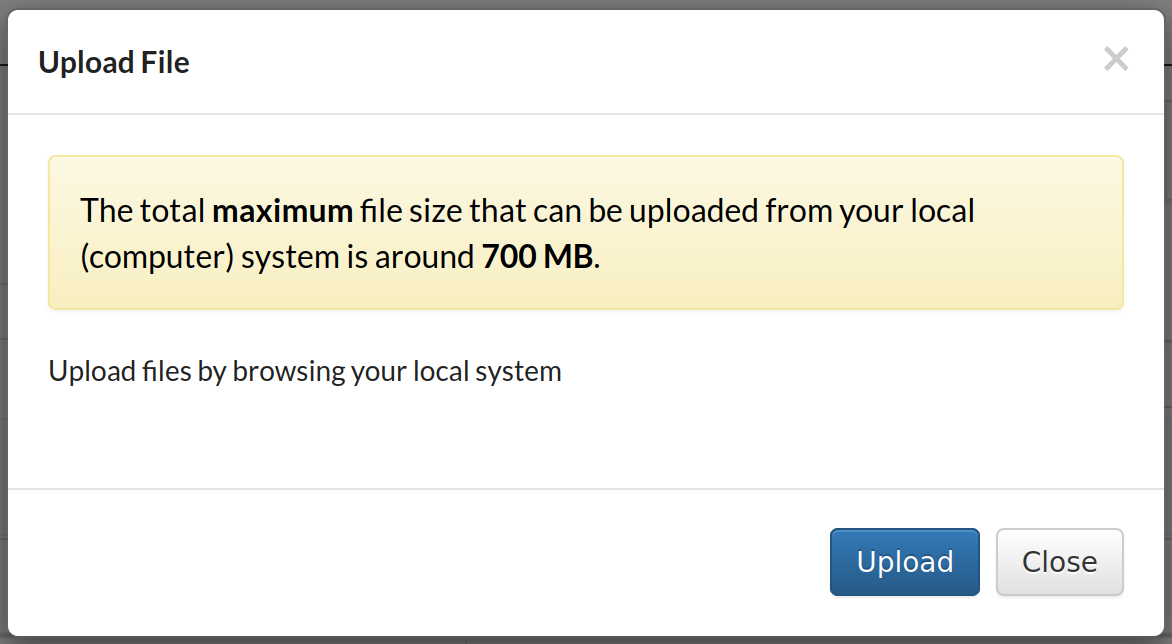
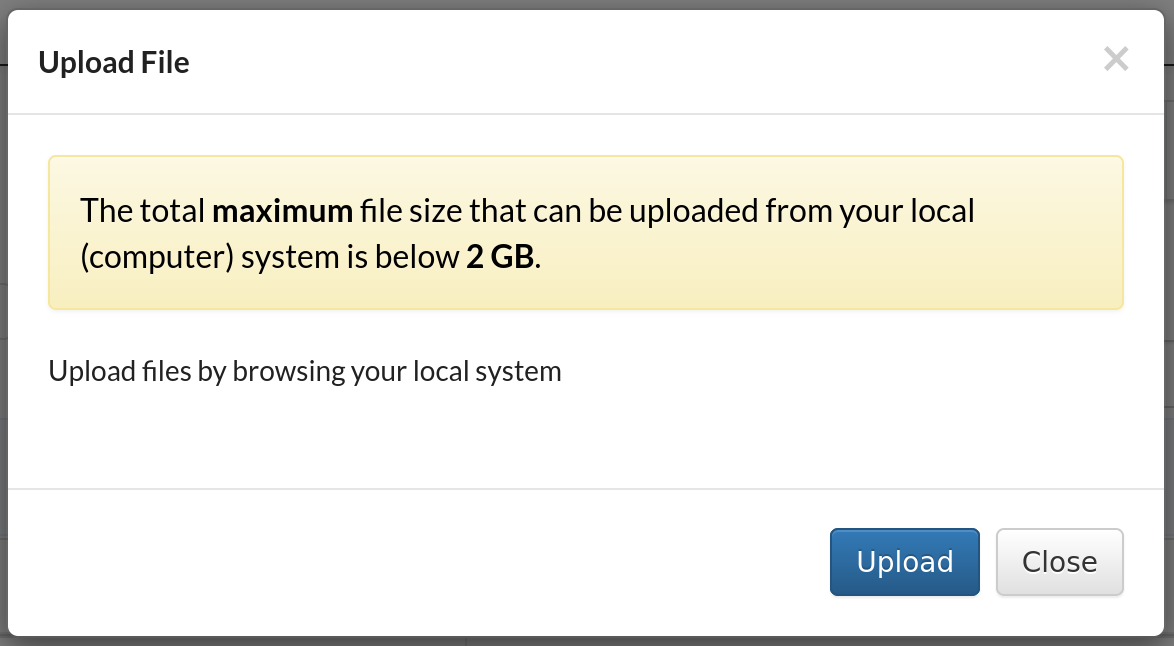
Updated the maximum data file upload size

diff --git a/submissions/files.rst b/submissions/files.rst
@@ -80,8 +80,8 @@ Submit Files from your Local (Computer) System
 
 .. note::
 
-   The total **maximum** file size that can be uploaded from your local (computer) system is around **700 MB**. If you
-   have a file larger than 700 MB or have multiple files whose combined total size exceeds 700 MB, please
+   The total **maximum** file size that can be uploaded from your local (computer) system is around **2 GB**. If you
+   have a file larger than 2 GB or have multiple files whose combined total size exceeds 2 GB, please
    :ref:`submit the file(s) via the terminal <files-submission-via-terminal>`.
 
 #. Click the |add-files-via-computer-button| button on the Files web page to add a new file by browsing your
